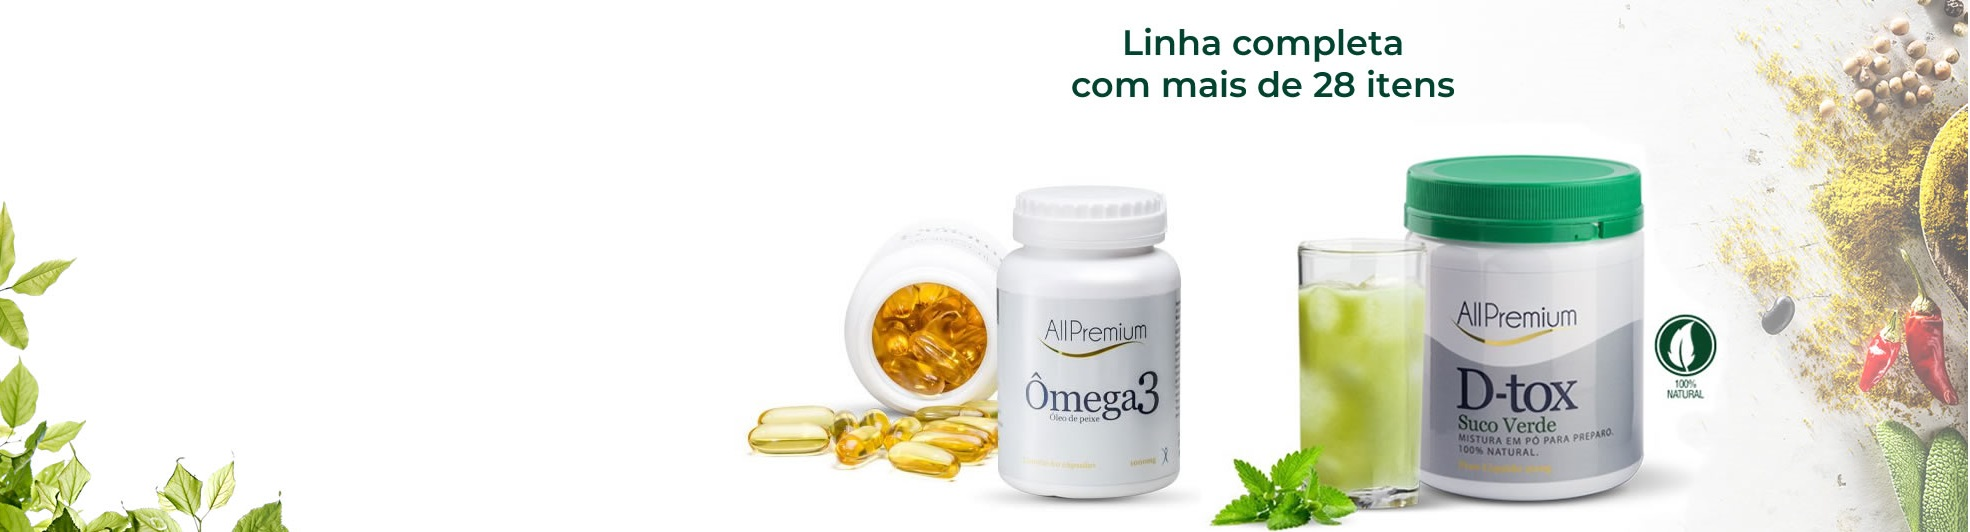
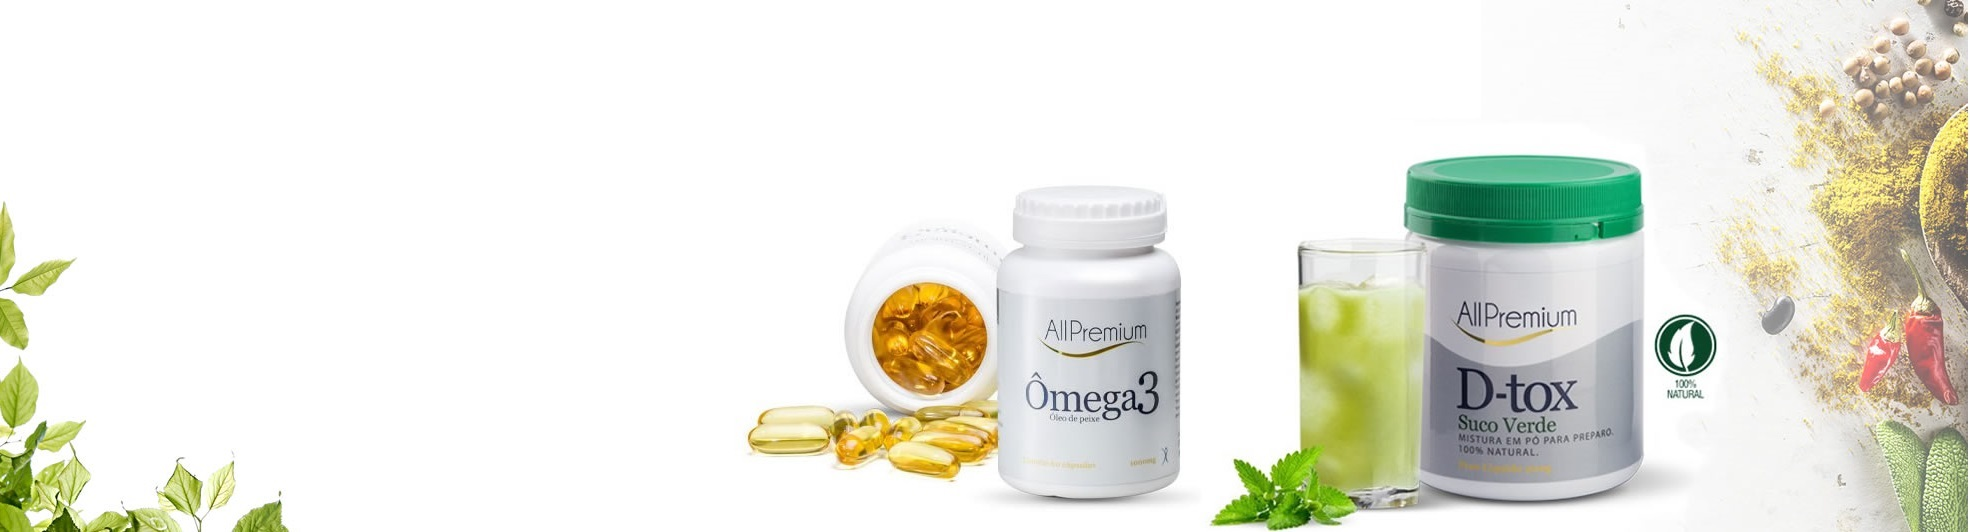
inclusão fotos carousel2

Changed region(s): [[0.5264, 0.0602, 0.7431, 0.1805]]

diff --git a/index.html b/index.html
@@ -149,82 +149,57 @@
 <!--############################################# INÍCIO DO CONTEÚDO DA PÁGINA  ############################################# -->
     <main>
       
-<div id="titulo">
-  <p>
-    <h1> Sejam bem Vindos!</h1>
-  </p>
-</div>
+      
 
       <div id="texto">
 <p>
   <span>A Trevo Farmacêutica é um laboratório de manipulação com mais de 5 anos de experiência na manipulação de formulas magistrais alopáticas e produtos naturais.
 Nossos colaboradores possuem ampla experiência na preparação de todas as formas farmacêuticas. Buscamos aprimoramento constante para nossa equipe e contamos com um rigoroso sistema de controle de qualidade cumprindo plenamente todas as exigências da ANVISA, nossa qualidade aliada a nossa dedicação garantem a excelência em nosso produto final.</span>
-  
-</p>
+   </p>
 
-</div>   <!-- fim da div texto -->  
-
-<br/>
-        <div id="img90">
-         <img src="img/vitrini.jpg" alt=""height="100px" width="auto">
+<!-- Início carousel 2 -->
+ <div id="carousel2">
+<div id="carousel2">
+<div id="carouselExampleCaptions" class="carousel slide" data-ride="carousel">
+  <ol class="carousel-indicators">
+    <li data-target="#carouselExampleCaptions" data-slide-to="0" class="active"></li>
+    <li data-target="#carouselExampleCaptions" data-slide-to="1"></li>
+    <li data-target="#carouselExampleCaptions" data-slide-to="2"></li>
+  </ol>
+  <div class="carousel-inner">
+    <div class="carousel-item active">
+      <img src="img/vitrini.jpg" class="d-block w-100" alt="...">
+      <div class="carousel-caption d-none d-md-block">
+        <p>Conheça a nossa linha de produtos naturais</p>
       </div>
-
-
-<!-- inicio dos cards -->
-
-<div class="card" style="width: 18rem " id="card">
-  <img src="img/moringa1.jpg" class="card-img-top" alt="...">
-  <div class="card-body">
-    <h5 class="card-title">Extrato de Moringa</h5>
-    <a href="medicamentos.html" class="btn btn-primary">Solicitar orçamento</a>
+    </div>
+    <div class="carousel-item">
+      <img src="img/ambiente.jpg" class="d-block w-100" alt="...">
+      <div class="carousel-caption d-none d-md-block">
+        <p>Nossos ambientes de manipulação possuem qualidade internacional</p>
+      </div>
+    </div>
+    <div class="carousel-item">
+      <img src="img/entrega.jpg" class="d-block w-100" alt="...">
+      <div class="carousel-caption d-none d-md-block">
+        <p>Manipulação e entrega rápida, pois a sua saúde é prioridade</p>
+      </div>
+    </div>
   </div>
+  <a class="carousel-control-prev" href="#carouselExampleCaptions" role="button" data-slide="prev">
+    <span class="carousel-control-prev-icon" aria-hidden="true"></span>
+    <span class="sr-only">Previous</span>
+  </a>
+  <a class="carousel-control-next" href="#carouselExampleCaptions" role="button" data-slide="next">
+    <span class="carousel-control-next-icon" aria-hidden="true"></span>
+    <span class="sr-only">Next</span>
+  </a>
 </div>
 
 
-<div class="card" style="width: 18rem;" id="card">
-  <img src="img/suplemento de ferro.jpg" class="card-img-top" alt="..." >
-  <div class="card-body">
-    <h5 class="card-title">Suplemento de ferro</h5>
-    <a href="generico50.html" class="btn btn-primary">Solicitar orçamento</a>
-  </div>
 </div>
-
-<div class="card" style="width: 18rem;" id="card">
-  <img src="img/Alga Chlorella.png" class="card-img-top" alt="...">
-  <div class="card-body">
-    <h5 class="card-title">Extrato de Alga Chlorella</h5>
-    <a href="medicamentos.html" class="btn btn-primary">Solicitar orçamento</a>
-  </div>
 </div>
-
-
-<div class="card" style="width: 18rem;" id="card">
-  <img src="img/omega 3.png" class="card-img-top" alt="...">
-  <div class="card-body">
-    <h5 class="card-title">Cápsulas Ômega 3</h5>
-    <a href="medicamentos.html" class="btn btn-primary">Solicitar orçamento</a>
-  </div>
-</div>
-
-<div class="card" style="width: 18rem;" id="card">
-  <img src="img/Mitragyna Speciosa.png" class="card-img-top" alt="...">
-  <div class="card-body">
-    <h5 class="card-title">Mitragyna Speciosa</h5>
-    <a href="medicamentos.html" class="btn btn-primary">Solicitar orçamento</a>
-  </div>
-</div>
-
-
-<div class="card" style="width: 18rem;" id="card">
-  <img src="img/Capsula de gelatina.jpg" class="card-img-top" alt="...">
-  <div class="card-body">
-    <h5 class="card-title">Cápsulas de gelatina</h5>
-    <a href="medicamentos.html" class="btn btn-primary">Solicitar orçamento</a>
-  </div>
-</div>
-
-
-<!-- fim dos cards -->
+<!-- Fim  carousel 2 -->
 
 
 

diff --git a/css/estilos.css b/css/estilos.css
@@ -38,27 +38,7 @@ body .nav-link {
 
 }
 
-
-h1 {
-  /* font-family: "Libre Baskerville"; */
-
-  text-align: center;
-  font-size: pt;
-  color: #4caf50;
-  
-}
-
-
- /*imagem vitrini */
-#img90 img {
-  text-align: center;
-  margin-bottom: 20px;
-  width: 100%;
-  height: auto ;
-  box-shadow: 0px 1px 10px 10px#dcedc8;
-  
-}
-/* O conteúdo do texto está localizado a baixo da foto da vitrini*/
+/* O conteúdo do texto está localizado a baixo do carousel*/
 
 #texto {
   text-align: justify;
@@ -66,7 +46,17 @@ h1 {
   
 }
 
-/* texto h1 Ofertas Especiais para você */
+
+#carousel2 {
+  /* font-family: "Libre Baskerville"; */
+
+  text-align: center;
+  font-size: 30px;
+  
+
+}
+
+
 
 
 /* card contendo a foto  das cápsulas */
